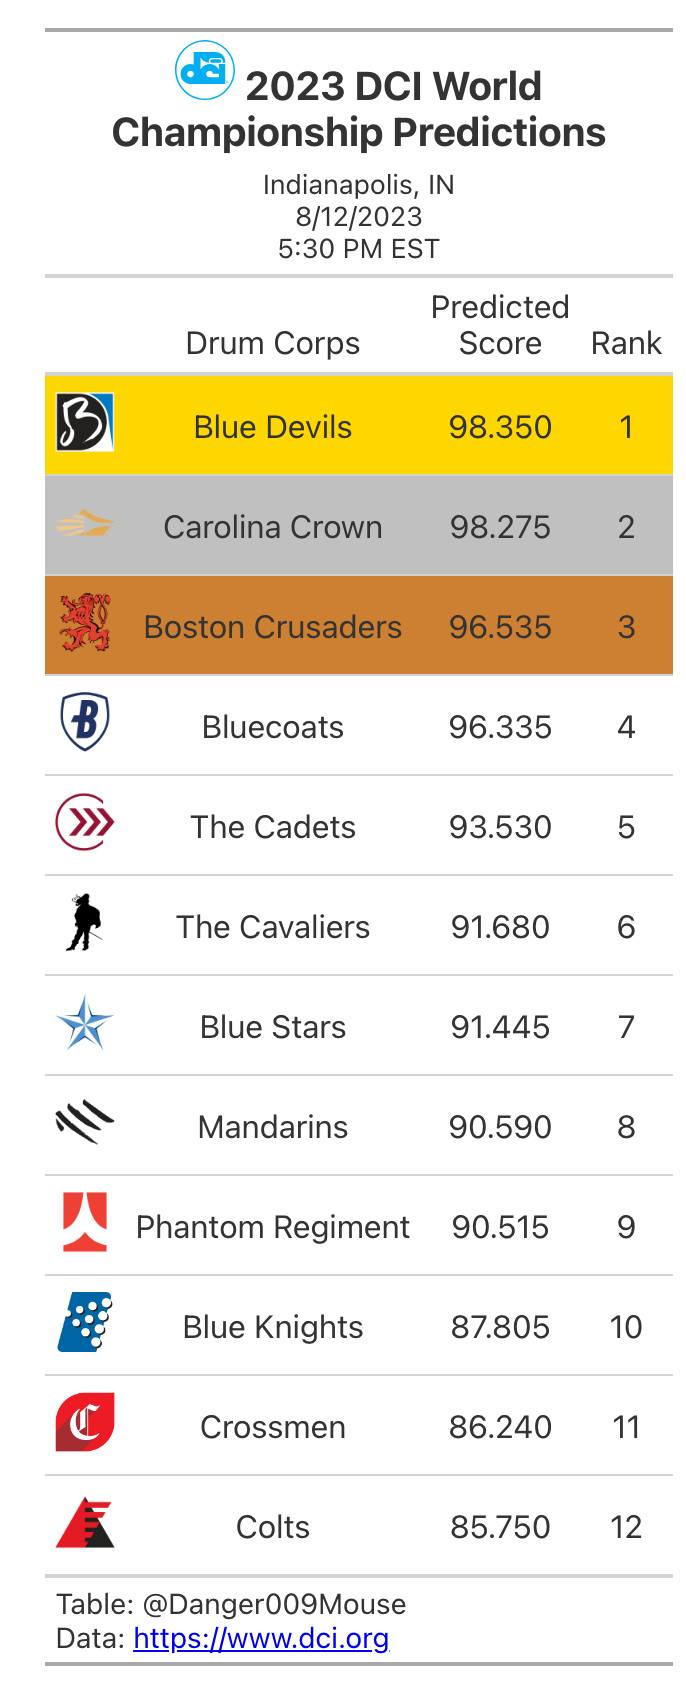
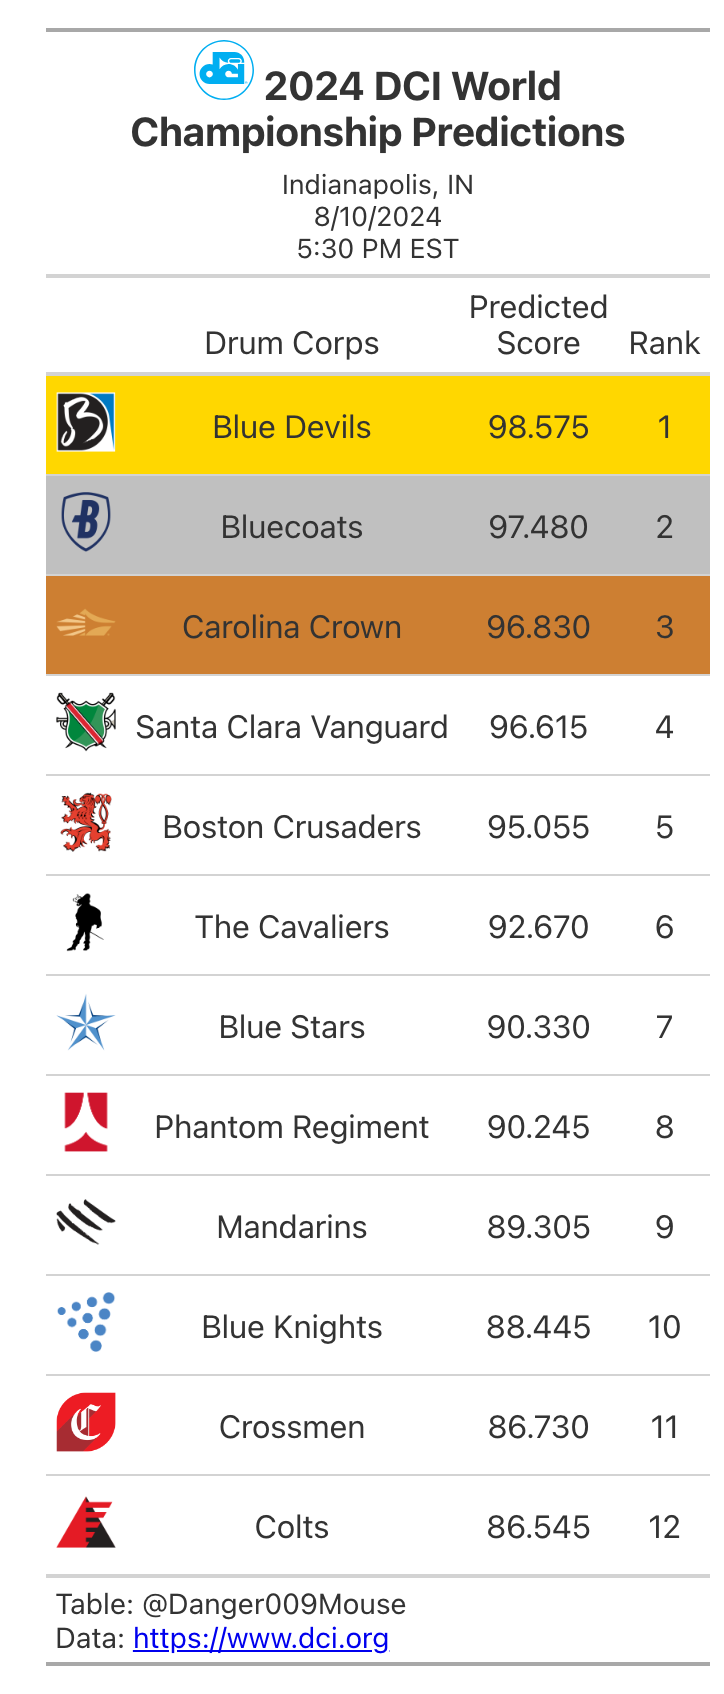
Update Caption Analysis for Small Performances

diff --git a/pages/1_Caption_Analysis.py b/pages/1_Caption_Analysis.py
@@ -8,17 +8,17 @@ color_discrete_map = dict(dci_colors.values)
 
 st.set_page_config(page_title="Caption Analysis", layout="wide")
 
-df = pd.read_csv('pages/2023-DCI-Caption-Score-Recaps.csv')
-larger_df = pd.read_csv('pages/2023-DCI-Caption-Score-Recaps-Large.csv')
+df = pd.read_csv('pages/2024-DCI-Caption-Score-Recaps.csv')
+#larger_df = pd.read_csv('pages/2023-DCI-Caption-Score-Recaps-Large.csv')
 
 df['date'] = pd.to_datetime(df.date)
-larger_df['date'] = pd.to_datetime(larger_df.date)
+#larger_df['date'] = pd.to_datetime(larger_df.date)
 
 cols = df.iloc[:, 12:].columns
-larger_cols = larger_df.iloc[:, 12:].columns
+#larger_cols = larger_df.iloc[:, 12:].columns
 
 df[cols] = df[cols].apply(pd.to_numeric, errors='coerce')
-larger_df[larger_cols] = larger_df[larger_cols].apply(pd.to_numeric, errors='coerce')
+#larger_df[larger_cols] = larger_df[larger_cols].apply(pd.to_numeric, errors='coerce')
 
 corps = list(df.drum_corps.unique())
 corps.sort()
@@ -29,45 +29,45 @@ captions_list = ['General Effect Total', 'Visual Proficiency', 'Visual Analysis'
 
 
 def ge_scores_by_drum_corps(corp):
-    larger_ge_df = larger_df[larger_df.drum_corps.isin(corp)].reset_index(drop=True)
-    larger_ge_df = larger_ge_df[['date', 'location', 'drum_corps', 'general_effect1_judge', 'general_effect2_judge',
-                                 'general_effect_total_score']]
+    #larger_ge_df = larger_df[larger_df.drum_corps.isin(corp)].reset_index(drop=True)
+    #larger_ge_df = larger_ge_df[['date', 'location', 'drum_corps', 'general_effect1_judge', 'general_effect2_judge',
+    #                             'general_effect_total_score']]
 
     ge_df = df[df.drum_corps.isin(corp)].reset_index(drop=True)
     ge_df = ge_df[
         ['date', 'location', 'drum_corps', 'general_effect1_judge', 'general_effect2_judge',
          'general_effect_total_score']]
 
-    final_df = pd.concat([ge_df, larger_ge_df]).sort_values(by='date')
-    final_df = pd.concat([ge_df, larger_ge_df]).sort_values(by=['drum_corps', 'date'])
-    final_df = final_df[(final_df != 0).all(1)].reset_index(drop=True)
+    f#inal_df = pd.concat([ge_df, larger_ge_df]).sort_values(by='date')
+    f#inal_df = pd.concat([ge_df, larger_ge_df]).sort_values(by=['drum_corps', 'date'])
+    #final_df = final_df[(final_df != 0).all(1)].reset_index(drop=True)
 
-    return final_df
-    #return ge_df
+    #return final_df
+    return ge_df
 
 def music_scores_by_drum_corps(corp='Blue Devils'):
     music_cols = ['date', 'location', 'drum_corps', 'music_brass_judge', 'music_analysis_judge',
                   'music_percussion_judge', 'music_brass_score', 'music_analysis_score', 'music_percussion_score',
                   'music_total_score']
 
-    larger_music_df = larger_df[larger_df.drum_corps.isin(corp)].reset_index(drop=True)
+    #larger_music_df = larger_df[larger_df.drum_corps.isin(corp)].reset_index(drop=True)
 
-    if larger_music_df['music_analysis2_score'][0] != 0:
-        larger_music_df['music_analysis_score'] = (larger_music_df['music_analysis1_score'] + larger_music_df[
-            'music_analysis2_score']) / 2
-    else:
-        larger_music_df['music_analysis_score'] = larger_music_df['music_analysis1_score']
+    #if larger_music_df['music_analysis2_score'][0] != 0:
+    #    larger_music_df['music_analysis_score'] = (larger_music_df['music_analysis1_score'] + larger_music_df[
+    #        'music_analysis2_score']) / 2
+    #else:
+    #    larger_music_df['music_analysis_score'] = larger_music_df['music_analysis1_score']
 
-    larger_music_df = larger_music_df[music_cols]
+    #larger_music_df = larger_music_df[music_cols]
 
     music_df = df[df.drum_corps.isin(corp)].reset_index(drop=True)
     music_df = music_df[music_cols]
 
-    final_df = pd.concat([music_df, larger_music_df]).sort_values(by=['drum_corps', 'date'])
-    final_df = final_df[(final_df != 0).all(1)].reset_index(drop=True)
+    #final_df = pd.concat([music_df, larger_music_df]).sort_values(by=['drum_corps', 'date'])
+    #final_df = final_df[(final_df != 0).all(1)].reset_index(drop=True)
 
-    return final_df
-    #return music_df
+    #return final_df
+    return music_df
 
 
 def visual_scores_by_drum_corps(corp='Blue Devils'):
@@ -79,28 +79,28 @@ def visual_scores_by_drum_corps(corp='Blue Devils'):
 
     visual_df = visual_df[visual_cols]
 
-    larger_visual_df = larger_df[larger_df.drum_corps.isin(corp)].reset_index(drop=True)
-    larger_visual_df = larger_visual_df[visual_cols]
+    #larger_visual_df = larger_df[larger_df.drum_corps.isin(corp)].reset_index(drop=True)
+    #larger_visual_df = larger_visual_df[visual_cols]
 
-    final_df = pd.concat([visual_df, larger_visual_df]).sort_values(by=['drum_corps', 'date'])
-    final_df = final_df[(final_df != 0).all(1)].reset_index(drop=True)
+    #final_df = pd.concat([visual_df, larger_visual_df]).sort_values(by=['drum_corps', 'date'])
+    #final_df = final_df[(final_df != 0).all(1)].reset_index(drop=True)
 
-    return final_df
-    #return visual_df
+    #return final_df
+    return visual_df
 
 def total_scores_by_drum_corps(corp):
-    larger_ge_df = larger_df[larger_df.drum_corps.isin(corp)].reset_index(drop=True)
+    #larger_ge_df = larger_df[larger_df.drum_corps.isin(corp)].reset_index(drop=True)
 
-    larger_ge_df = larger_ge_df[['date', 'location', 'drum_corps', 'total_score']]
+    #larger_ge_df = larger_ge_df[['date', 'location', 'drum_corps', 'total_score']]
 
     ge_df = df[df.drum_corps.isin(corp)].reset_index(drop=True)
     ge_df = ge_df[['date', 'location', 'drum_corps', 'total_score']]
 
-    final_df = pd.concat([ge_df, larger_ge_df]).sort_values(by=['drum_corps', 'date'])
-    final_df = final_df[(final_df != 0).all(1)].reset_index(drop=True)
+    #final_df = pd.concat([ge_df, larger_ge_df]).sort_values(by=['drum_corps', 'date'])
+    #final_df = final_df[(final_df != 0).all(1)].reset_index(drop=True)
 
-    return final_df
-    #return ge_df
+    #return final_df
+    return ge_df
 
 def get_line_chart(caption_picked):
     fig2 = px.line(

diff --git a/pages/2_Historical_Scores.py b/pages/2_Historical_Scores.py
@@ -11,7 +11,8 @@ st.set_page_config(page_title="Historical Scores", layout="wide")
 score_df1 = pd.read_csv('pages/2013-to-2019-World-Class-DCI-scores.csv')
 score_df2 = pd.read_csv('pages/2022-World-Class-DCI-scores.csv')
 score_df3 = pd.read_csv('pages/2023-World-Class-DCI-scores.csv')
-score_df = pd.concat([score_df1, score_df2, score_df3])
+score_df4 = pd.read_csv('pages/2024-World-Class-DCI-scores.csv')
+score_df = pd.concat([score_df1, score_df2, score_df3, score_df4])
 score_df['Date'] = pd.to_datetime(score_df.Date)
 score_df['Year'] = score_df.Date.dt.year
 score_df = score_df.sort_values(by=['Corps', 'Year']).reset_index(drop=True)

diff --git a/streamlit_app.py b/streamlit_app.py
@@ -35,7 +35,7 @@ dci_prelims = Image.open('images/prelims_predictions.png')
 dci_semis = Image.open('images/semis_predictions.png')
 dci_finals = Image.open('images/finals_predictions.png')
 
-df = pd.read_csv('pages/2023-World-Class-DCI-scores.csv')
+df = pd.read_csv('pages/2024-World-Class-DCI-scores.csv')
 dci_colors = pd.read_csv('pages/drum_corps_colors.csv')
 color_discrete_map = dict(dci_colors.values)
 
